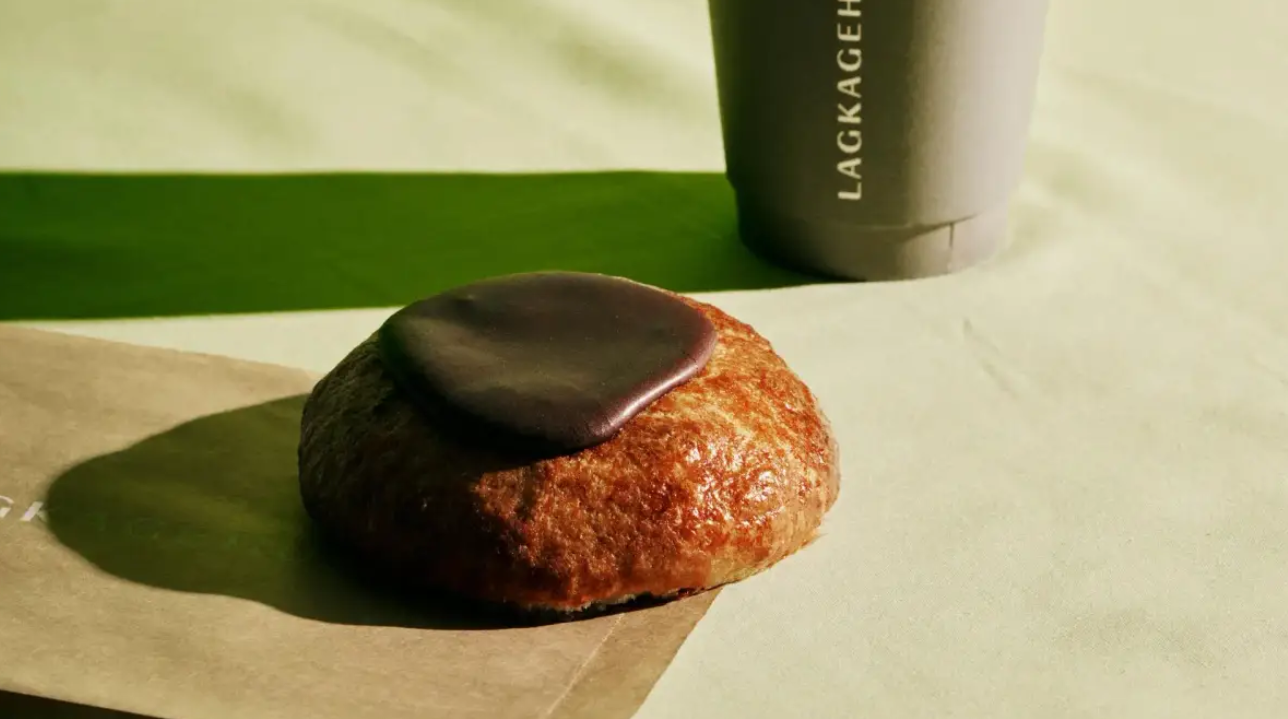
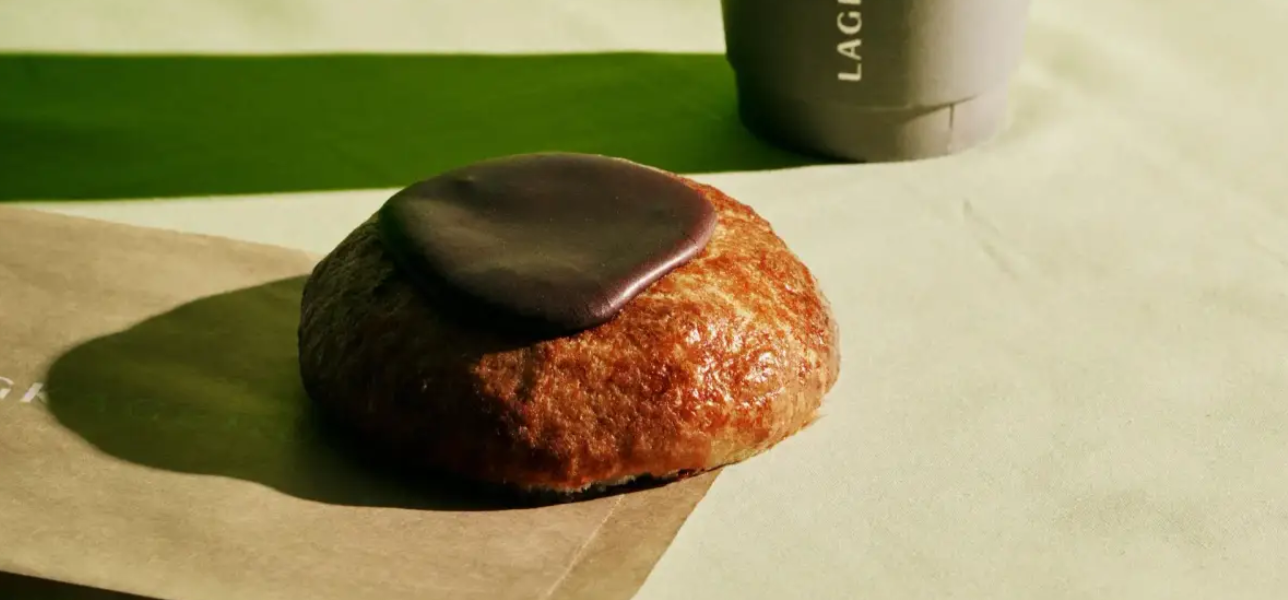
croppede billeder + css billedhøjde

diff --git a/CSS/main.css b/CSS/main.css
@@ -142,7 +142,8 @@ body {
 
 
 
-/* Stort billede
+/* Stort billede*/
+/*
 .hero-image img {
     width: 100%;
     height: auto;
@@ -152,16 +153,17 @@ body {
 
 
 /*slideshow Anna*/
-.mySlides{
+/*.mySlides{
     display: none;
-}
+} */
 img{
     vertical-align: middle;
+    height: 600px;
 }
 
 /*tilføj maks højde?*/
 .slideshow-container{
-    max-width: 80%;
+    width: 100%;
     position: relative;
     margin: auto;
 }

diff --git a/main.html b/main.html
@@ -36,7 +36,7 @@
 
 
     <!-- Stort billede -->
-     <!-- 
+     <!--
     <div class="hero-image">
         <img src="Images/bager.jpg" alt="Stort Billede">
     </div> 
@@ -63,6 +63,8 @@
             <div class="text">SANDWICHES</div>
         </div>
     </div>
+
+
 
     <!-- Kolonne med 3 billeder -->
     <div class="image-column">
